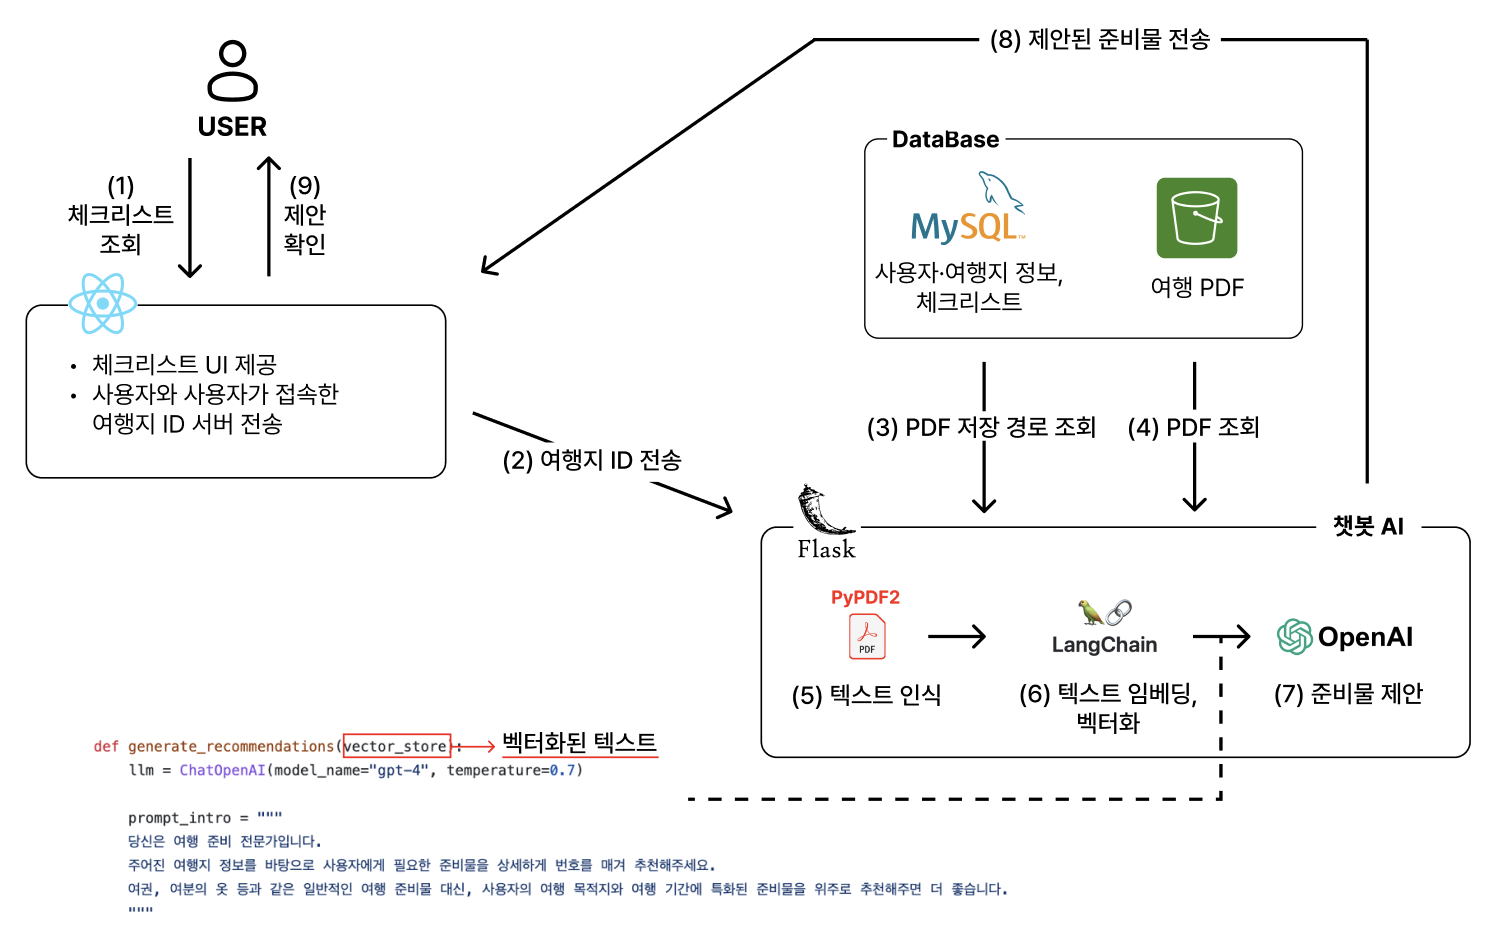
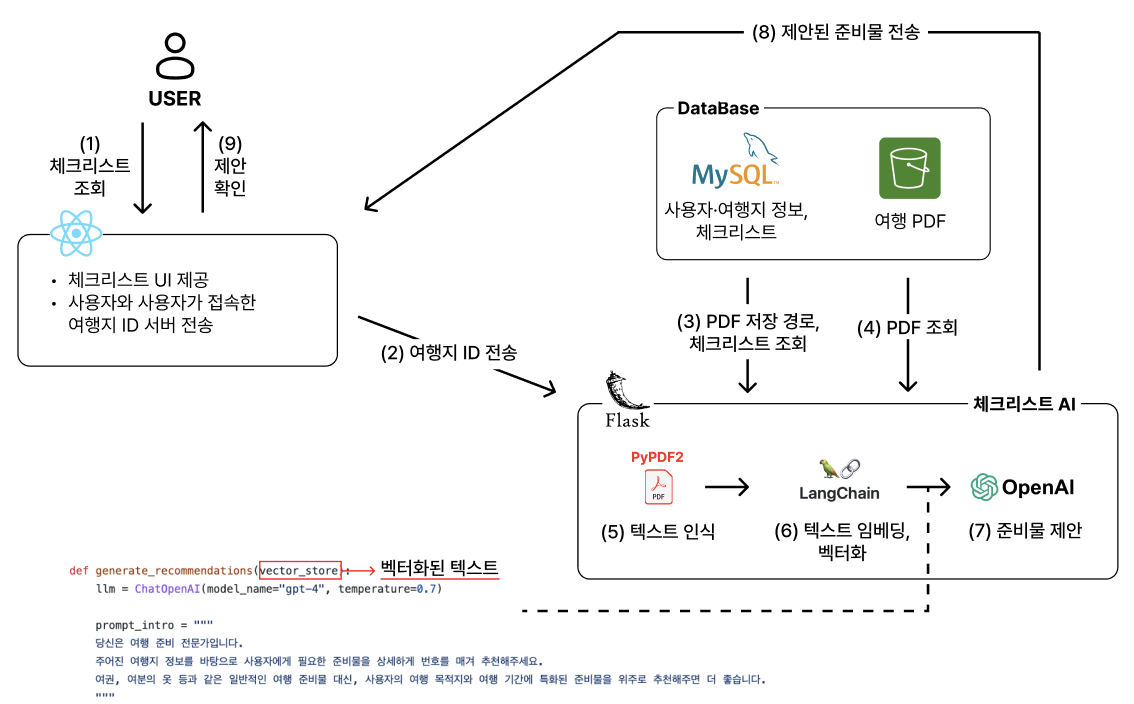
:recycle: : 2차 보고서 전체 구조도 수정, 프롬프팅 이미지 추가

diff --git a/README.md b/README.md
@@ -25,9 +25,9 @@
 | 항목 | 내용 |
 |:---  |---  |
 | (1) 요구사항 정의 | - **요구사항 정의서** (기획의 전반적인 설명)<img width="800" alt="기능명세서1" src="./document/기능명세서1.png"><br><img width="800" alt="기능명세서2" src="./document/기능명세서2.png"><br><img width="800" alt="기능명세서3" src="./document/기능명세서3.png"><br><br>- **ui 디자인** (프론트의 전반적인 설명)<br><img width="500" alt="디자인1" src="./document/디자인1.png"><br><img width="500" alt="디자인2" src="./document/디자인2.png"><br><img width="800" alt="디자인3" src="./document/디자인3.png"><br><br>- **ER 다이어그램** (백앤드의 전반적인 설명)<br><img width="800" alt="ERD" src="./document/ERD.png"> <br><br>- **API 명세서**<br><img width="800" alt="API" src="./document/API.png">
-| (2) 전체 시스템 구성 | <img width="1316" alt="SW 구조도" src="./document/시스템구성도.png">  <br> **CLIENT** <br> - Vercel : 서버리스 플랫폼으로 프론트엔드 애플리케이션을 배포하고 관리 <br> - React : 사용자가 입력한 데이터를 서버로 전송, 서버에서 받은 응답을 화면에 표시하여 시니어에 최적화된 UI 제공 <br> - Axios : 서버와 프론트엔드 간 요청 처리 <br> <br> **SERVER** <br> - Spring Boot : 프론트 요청에 따라 DB에 데이터를 저장하거나 필요한 데이터를 찾아서 응답 <br> - Flask : 프론트에서 받은 사용자의 질문을 토대로 챗봇 답변 생성 <br> - Docker : Spring Boot, Flask 서버 컨테이너화 <br> - EC2 : Docker로 패키징된 애플리케이션 호스팅 <br> - GithubActions : 코드 변경 시 배포 자동화 <br> <br> **AI** <br> - PyPdf2 : PDF 텍스트 인식<br> - LangChain : 텍스트 임베딩, 벡터화 <br> - OpenAI : 챗봇 답변 생성, 체크리스트 제안 | 
+| (2) 전체 시스템 구성 | <img width="1316" alt="SW 구조도" src="./document/시스템구성도.png">  <br> **CLIENT** <br> - Vercel : 서버리스 플랫폼으로 프론트엔드 애플리케이션을 배포하고 관리한다. <br> - React : 사용자 인터페이스를 구축하기 위한 자바스크립트 라이브러리로, 클라이언트 측 UI를 담당한다. 사용자가 입력한 데이터를 서버로 전송하고, 서버에서 받은 응답을 화면에 표시하여 시니어에 최적화된 UI 제공한다. <br> - Axios : 클라이언트 측에서 서버로 HTTP 요청을 보내고 응답을 받을 수 있게 해주는 JavaScript 기반의 HTTP 클라이언트 라이브러리이다. GoldenGlobe에서는 REST API와의 상호작용을 위해 사용되었으며, 이를 통해 사용자가 입력한 데이터를 서버에 전달하고 서버의 응답을 쉽게 처리할 수 있다. <br> <br> **SERVER** <br> - Spring Boot : 프론트 요청에 따라 DB에 데이터를 저장하거나 필요한 데이터를 찾아서 반환한다.<br> - JWT (JSON Web Token) : 회원 가입 및 로그인 기능에서 인증과 권한 부여를 위한 토큰 방식의 인증 도구이다. 사용자의 인증 정보를 JSON 형식으로 인코딩하여 토큰 형태로 클라이언트와 서버 간에 전달한다. <br> - Flask : Python 기반의 마이크로 웹 프레임워크이다.GoldenGlobe에서는 AI 챗봇과 PDF 데이터를 분석하는 기능을 제공하기 위해 Flask를 사용해 API 서버를 구축했다. <br> - Docker : Spring Boot, Flask 서버 컨테이너화한다. <br> - AWS EC2 : Docker로 패키징된 애플리케이션을 호스팅한다. <br> - GithubActions : 코드 변경 시 배포를 자동화한다.<br><br> **DB**<br>- MySQL : 오픈 소스 관계형 데이터베이스 관리 시스템으로, 구조화된 데이터를 저장하고 효율적으로 관리한다. GoldenGlobe에서는 사용자, 여행지 정보, 체크리스트 항목 등을 체계적으로 저장하고 조회하기 위해 MySQL을 데이터베이스로 활용하였다. <br> - AWS S3 : 클라우드 기반의 객체 스토리지 서비스로, 대용량 데이터를 안전하게 저장하고 관리할 수 있다. GoldenGlobe에서는 사용자들이 업로드한 여행 관련 PDF 파일을 저장하고 이를 AI 분석 모듈에서 접근할 수 있도록 하기 위해 S3를 활용하였다.<br> <br> **AI** <br> - PyPdf2 : 여행 관련 다수의 PDF 문서들을 자동으로 처리하기 위해 PyPDF2 라이브러리를 활용하였다. PyPDF2를 이용하여 사용자가 첨부한 PDF 문서들에서 텍스트를 추출한다.<br> - LangChain : 여러 개의 문서를 연결하고 자연어 처리 모델과 상호작용을 위한 라이브러리이다. GoldenGlobe에서는 PyPDF2로 추출한 텍스트 데이터를 LangChain의 체인으로 구성하여, 이후 단계에서의 OpenAI 모듈이 사용자의 질문에 대해 문서 내용을 참조하는 정확한 답변을 제공할 수 있도록 하였다. <br> - OpenAI : 챗봇의 자연어 질문에 답변을 제공하기 위한 인공지능 API이다. GoldenGlobe에서는 langchain이 PDF 문서에서 처리한 내용을 기반으로 사용자의 다양한 질문에 적절한 응답을 생성하고, 필요한 체크리스트 준비 항목을 사용자에게 자동으로 제안하는 데 이용되었다. | 
 | (3) 주요 엔진 및 기능 설계 | **[회원가입/로그인]**<br><img width="800" alt="회원가입로그인기능" src="./document/회원가입로그인기능.png"><br>(1) 유저에게서 회원 가입 정보(이름, 생년월일, 전화번호, 비밀번호, 닉네임, 프로필, 성별)를 입력받는다. <br>(2) 유저 정보를 담아 React에서 서버로 POST 요청을 보낸다.<br>(3) 서버에서는 사용자의 정보를 MySQL의 user 테이블에 저장한다. 이후 클라이언트 측에서 서버로 요청을 보내면 유저 정보를 조회하고 수정, 삭제할 수 있다.<br>(4) 유저가 로그인을 하게 되면 프론트에서 아이디(전화번호)와 비밀번호를 서버로 POST 한다.<br>(5) 서버에서는 이 정보를 MySQL의 user 테이블의 정보와 비교해서, 회원이 맞는지 확인하고, 맞다면 JWT 토큰을 만들어 response 메시지로 클라이언트 측에 넘겨준다.<br>(6) 이후 클라이언트는 이 토큰을 헤더에 붙여서 서버에 해당 유저가 인증된 사용자임을 확인시켜준다.<br><br>**[여행지 관리]**<br><img width="800" alt="여행지관리기능" src="./document/여행지관리기능.png"><br>(1) 유저는 국가/도시/날짜를 입력해 여행지를 생성할 수 있다. 프론트는 해당 정보를 입력받아 서버에 POST 요청을 보낸다. <br>(2) 서버는 MySQL의 travelList 테이블에 해당 여행 정보를 저장한다. 이 정보를 바탕으로 여행지가 생성되며 동시에 해당 여행지와 연동된 체크리스트와 챗봇이 자동 생성된다.<br>(3) 유저는 가족의 전화번호를 입력하여 여행지를 공유할 수 있다. 여행지에 가족을 추가하면 해당 여행은 sharedList에 저장되어 공유된 모든 사용자에게 나타나게 된다.<br><br> **[챗봇]** <br><img width="800" alt="챗봇기능" src="./document/챗봇기능.png"><br>(1) 유저가 챗봇에서 사용될 PDF를 업로드할 수 있다. 프론트는 해당 PDF를 서버에 POST 한다.<br>(2) 서버는 AWS S3 bucket에 PDF를 저장한다.<br>(3) 저장된 bucket 경로를 MySQL의 pdfList 테이블에 저장한다.<br>(4) 저장이 완료되면 사용자는 챗봇을 사용할 수 있다. 사용자가 질문을 던지면 서버에서는 PyPDF2를 통해 PDF의 텍스트를 인식한다.<br>(5) 인식된 텍스트는 LangChain과 HuggingFace 라이브러리를 통해 벡터화한다.<br>(6) OpenAI API를 사용해 질문에 대한 답변을 추출한다.<br>(7) 추출된 답변은 MySQL의 chatBotLog 테이블에 저장되며, 서버에서는 이 로그를 사용자에게 전달한다.<br><br> **[체크리스트]**<br><img width="800" alt="체크리스트기능" src="./document/체크리스트기능.png"><br>(1) 체크리스트는 사용자가 자유롭게 그룹을 추가하고 그룹 내에 아이템(항목)을 추가할 수 있다. (예: 그룹: 세면도구 / 아이템: 칫솔, 치약)<br>(2) 그룹과 아이템은 각각 서버에 POST 된다. 각각의 그룹과 아이템은 유저가 원할 때 언제든 생성/수정/삭제할 수 있다. 각각의 API는 유저의 호출에 따라 서버에 전달된다.<br>(3) 체크리스트에는 메모 기능도 있다. 메모는 실제 포스트잇처럼 UI를 구성하였고 메모 안에 텍스트를 입력하면 서버에 전달된다. 해당 메모는 체크리스트와 함께 언제든 조회/생성/삭제할 수 있다.<br>(4) 또한 체크리스트는 자동으로 템플릿을 제공해 유저의 피로를 덜어준다. 챗봇에서 업로드한 PDF를 통해 자동으로 맞춤형 준비물을 추천하여 체크리스트를 제공한다.<br>
-| (4) 주요 기능의 구현 | **[챗봇]** <br><img width="800" alt="챗봇상세" src="./document/챗봇상세.png"><br>- 사용 모듈 :  React - SpringBoot(챗봇) - Database(chatBogLog, pdfList, S3 bucket) - Flask(PyPDF2, LangChain, OpenAI)<br>- 목적 : 저장된 PDF를 바탕으로, 사용자의 질문에 맞는 정확한 답변을 제공한다.<br><br>- 기능 흐름 및 구현<br>(1) 사용자가 질문을 입력한다.<br>(2) React는 사용자가 입력한 질문과, 챗봇 ID를 서버로 전송한다.<br>(3) chatBotLog 테이블에 질문을 저장하고, 챗봇 ID를 통해 pdfList 테이블에 저장된 PDF의 경로를 확인한다.<br>(4) 위에서 얻은 PDF 경로를 통해 AWS S3 bucket에서 PDF를 확인한다.<br>(5) Flask에서 PyPDF2 라이브러리를 이용해 PDF에서 텍스트를 인식한다.<br>(6) LangChain으로 인식한 텍스트를 임베딩하고, 벡터화한다.<br>(7) 벡터화된 텍스트를 가지고, OpenAI API를 이용해 입력받은 질문에 대한 답변을 생성한다.<br>(8) 생성한 답변을 chatBotLog에 저장한다.<br>(9) Spring Boot에서 생성된 답변이 포함된 챗봇 로그를 조회한다.<br>(10) 조회한 로그(답변)을 React에 전송한다.<br>(11) React에서 응답받은 로그 및 답변을 유저에게 반환한다.<br><br>- **체크리스트**<br><img width="800" alt="체크리스트상세" src="./document/체크리스트상세.png"><br>- 사용 모듈 : React - Database(checkList, S3 bucket) - Flask(PyPDF2, LangChain, HuggingFace, OpenAI)<br><br>- 목적 : 저장된 PDF를 바탕으로, 사용자가 보다 편리하게 필요한 준비물을 챙길 수 있도록, 항목을 제안한다.<br><br>- 기능 흐름 및 구현 <br>(1) 사용자가 체크리스트 페이지를 조회한다.<br>(2) React는 사용자 정보와, 사용자가 접속한 체크리스트의 여행지 ID를 서버에 전송한다.<br>(3) 여행지ID로 pdfList 테이블에 저장된 PDF의 경로를 확인한다.<br>(4) 위에서 얻은 PDF 경로를 통해 AWS S3 bucket에서 PDF를 확인한다.<br>(5) Flask에서 PyPDF2 라이브러리를 이용해 PDF에서 텍스트를 인식한다.<br>(6) LangChain으로 인식한 텍스트를 임베딩하고, 벡터화한다.<br>(7) 벡터화된 텍스트를 가지고, OpenAI API를 이용해 필요한 준비물 항목을 생성한다.<br>(8) 제안된 준비물 항목을 React에 전송한다.<br>(9) React에서 응답받은 항목을 유저에게 반환한다.<br>
+| (4) 주요 기능의 구현 | **[챗봇]** <br><img width="800" alt="챗봇상세" src="./document/챗봇상세.png"><br>- 사용 모듈 :  React - SpringBoot(챗봇) - Database(chatBogLog, pdfList, S3 bucket) - Flask(PyPDF2, LangChain, OpenAI)<br>- 목적 : 저장된 PDF를 바탕으로, 사용자의 질문에 맞는 정확한 답변을 제공한다.<br><br>- 기능 흐름 및 구현<br>(1) 사용자가 질문을 입력한다.<br>(2) React는 사용자가 입력한 질문과, 챗봇 ID를 서버로 전송한다.<br>(3) chatBotLog 테이블에 질문을 저장하고, 챗봇 ID를 통해 pdfList 테이블에 저장된 PDF의 경로를 확인한다.<br>(4) 위에서 얻은 PDF 경로를 통해 AWS S3 bucket에서 PDF를 확인한다.<br>(5) Flask에서 PyPDF2 라이브러리를 이용해 PDF에서 텍스트를 인식한다.<br>(6) 인식한 텍스트를 LangChain으로 임베딩하고, 벡터화한다.<br>(7) 벡터화된 텍스트를 가지고, OpenAI API를 이용해 입력받은 질문에 대한 답변을 생성한다.<br>(8) 생성한 답변을 chatBotLog 테이블에 저장한다.<br>(9) Spring Boot에서 생성된 답변이 포함된 chatBotLog 테이블을 조회한다.<br>(10) 조회한 로그(답변)을 React에 전송한다.<br>(11) React에서 응답받은 로그 및 답변을 유저에게 반환한다.<br><br>- 프롬프팅 이전 <img width="800" alt="챗봇전" src="./document/챗봇전.png"><br> - 프롬프팅<img width="800" alt="챗봇프롬프팅" src="./document/챗봇프롬프팅.png"><br> - 프롬프팅 이후 <img width="800" alt="챗봇후" src="./document/챗봇후.png"><br><br><br> **[체크리스트]**<br><img width="800" alt="체크리스트상세" src="./document/체크리스트상세.png"><br>- 사용 모듈 : React - Database(checkList, S3 bucket) - Flask(PyPDF2, LangChain, HuggingFace, OpenAI)<br><br>- 목적 : 저장된 PDF를 바탕으로, 사용자가 보다 편리하게 필요한 준비물을 챙길 수 있도록, 항목을 제안한다.<br><br>- 기능 흐름 및 구현 <br>(1) 사용자가 체크리스트 페이지를 조회한다.<br>(2) React는 사용자 정보와, 사용자가 접속한 체크리스트의 여행지 ID를 서버에 전송한다.<br>(3) 여행지ID로 pdfList 테이블에 저장된 PDF의 경로를 확인한다.<br>(4) 위에서 얻은 PDF 경로를 통해 AWS S3 bucket에서 PDF를 확인한다.<br>(5) Flask에서 PyPDF2 라이브러리를 이용해 PDF에서 텍스트를 인식한다.<br>(6) LangChain으로 인식한 텍스트를 임베딩하고, 벡터화한다.<br>(7) 벡터화된 텍스트를 가지고, OpenAI API를 이용해 필요한 준비물 항목을 생성한다.<br>(8) 제안된 준비물 항목을 React에 전송한다.<br>(9) React에서 응답받은 항목을 유저에게 반환한다.<br><br>- 프롬프팅 이전 <img width="800" alt="체크리스트전" src="./document/체크리스트전.png"><br>- 프롬프팅 <img width="800" alt="체크리스트프롬프팅" src="./document/체크리스트프롬프팅.png"><br>- 프롬프팅 이후<img width="800" alt="체크리스트후" src="./document/체크리스트후.png">
 | (5) 기타 |  |
 
 <br>
